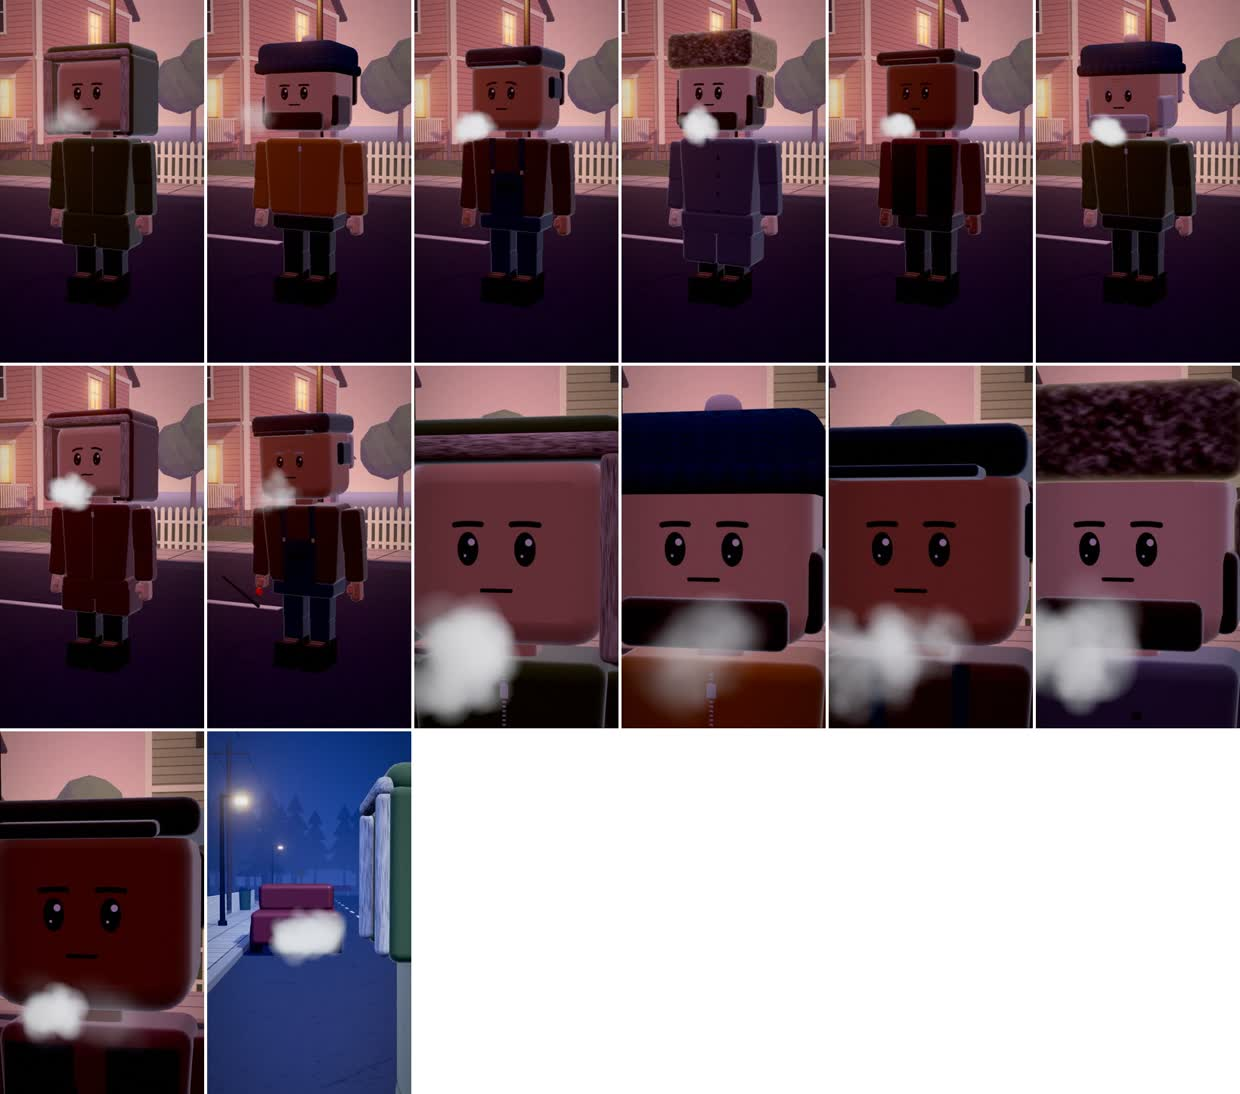
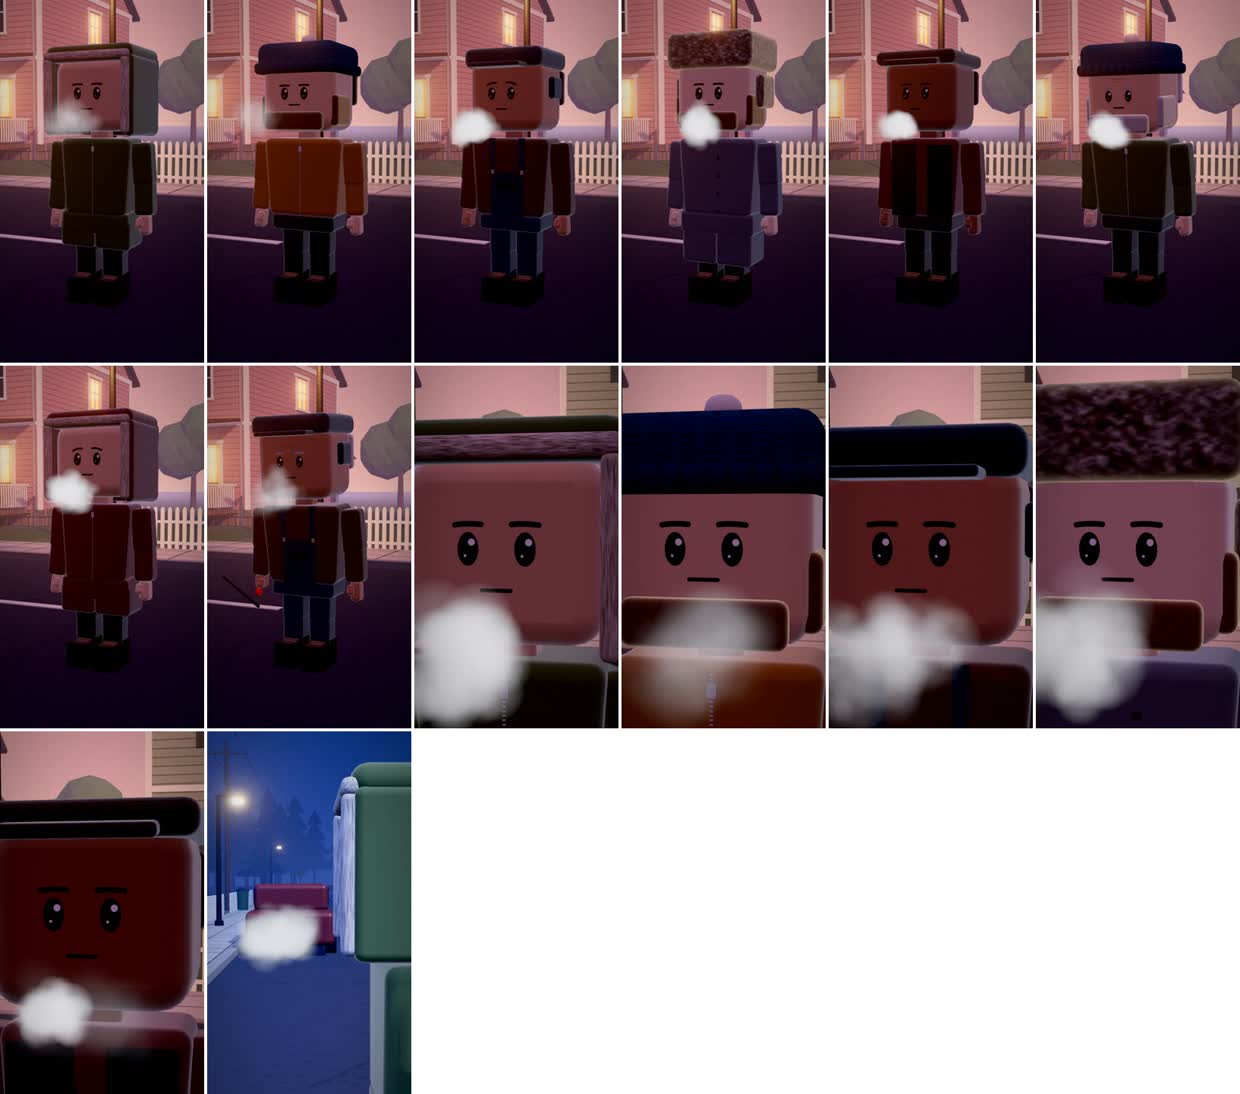
Kindly F1: Atem-Tor bestanden (Kompressions-Simulation), Endkarten-Probe, Belege und README §20
Atemdampf 20 % größer und im Kern dichter; Atem-Probe am Stegende (Gus und Odell dampfen, Bear nicht):
Gus +138,7, Odell +23,9, Bear 0,1 Helligkeitsstufen, auch bei 720×1280 mit 1 Mbit/s; schwächstes
1-s-Fenster der Gruppe 64. Endkarte 1,204 → 1,203 nach derselben Kompression lesbar; der Pinsel
verdeckt die alte Zahl nicht mehr. Renders liegen in horror/build/kindly-01/ (nicht im Repo).

Claude-Session: https://claude.ai/code/session_01AABSNR8DnjH5X3EkuUwTDc

diff --git a/horror/engine/figuren/ortsschild.js b/horror/engine/figuren/ortsschild.js
@@ -13,7 +13,7 @@
 //         schichten (alte Zahlen unter der Farbe, Std ["1,207", "1,205", "1,206"]), hand (Std true: Odells Hand mit
 //         Pinsel ist da und kommt zur Aktion ins Bild), schnee (Std true: Schnee auf der Oberkante)
 // Animationen:
-//   umschreiben  Std 1,0 s. Hand kommt von links unten (0–0,38 s; die alte Zahl bleibt frei lesbar), Strich durch
+//   umschreiben  Std 1,0 s. Hand kommt von links unten (0–0,4 s; der Pinsel bleibt unter der alten Zahl), Strich durch
 //                Zeile 1 (0,40–0,52 s), neue Zahl in Zeile 2 von links nach rechts (0,55–0,78 s), Hand zieht nach
 //                unten weg (0,8–1,0 s). Mit Start auf dem ersten Bild der Endkarte steht die neue Zahl 0,72 s fertig.
 //   pinsel_sinken Std 1,2 s. Der Pinsel hebt sich vor Zeile 2, hält, sinkt wieder (keine Änderung, Stille).
@@ -233,7 +233,10 @@ export default async function baue(ctx, params = {}) {
           // Weg der Pinselspitze: von links unten heran, Strich nach rechts, hinunter und zurück an den Anfang von
           // Zeile 2, malen nach rechts (mit kleinen Auf-und-ab-Zügen), dann nach unten aus dem Bild
           let x, y;
-          if (t < 0.38) { const u = glatt(0, 0.38, t); x = links - 0.9 * (1 - u); y = z1 - 1.3 * (1 - u); }
+          // Anflug endet links unterhalb der Zahl (der Pinsel liegt schräg nach rechts unten: so verdeckt er die
+          // alte Zahl nicht, solange sie ruhig zu lesen sein soll), erst kurz vor dem Strich an ihren Anfang
+          if (t < 0.36) { const u = glatt(0, 0.36, t); x = links - 0.08 - 0.85 * (1 - u); y = z1 - 0.24 - 1.1 * (1 - u); }
+          else if (t < 0.4) { const u = glatt(0.36, 0.4, t); x = links - 0.08 + 0.08 * u; y = z1 - 0.24 + 0.24 * u; }
           else if (t < 0.53) { const u = glatt(0.40, 0.52, t); x = links + strichLaenge * u; y = z1 + 0.05 * u; }
           else if (t < 0.56) { const u = glatt(0.53, 0.56, t); x = rechts + (links - rechts) * u; y = z1 + (z2 - z1) * u; }
           else if (t < 0.8) { const u = glatt(0.55, 0.78, t); x = -neuB / 2 + 0.15 + (neuB - 0.3) * u; y = z2 + Math.sin(c.tLokal * 70) * ZIFFER * 0.35 * (u < 1 ? 1 : 0); }

diff --git a/horror/engine/README.md b/horror/engine/README.md
@@ -1001,5 +1001,23 @@ node test/atem-probe.mjs --nur-messung   # nur Kompression und Messung erneut (t
 
 - **Probe:** 10 s nachts am Stegende (Set see, Licht `see_nacht`, Gegenlicht der Steglaterne, leichter Schneefall), wie S37: Kamera neben dem Steg, Odell (weiße Gläser, Laterne) von hinten, Bear und Gus im Dreiviertelprofil. Gus und Odell dampfen, Bear nicht. Zwei Einstellungen (0–5 s alle drei, 5–10 s näher an Bear und Gus).
 - **Simulation:** Die Hauptfassung (crf 18) wird wie von einer Plattform im schlechten Fall neu kodiert: H.264, x264 `-preset medium`, zwei Durchgänge, 1080 × 1920 mit 2,5 und 1,5 Mbit/s, 720 × 1280 mit 1,0 Mbit/s.
-- **Messung:** je Fassung und Figur mittlere Helligkeit in einem Kasten um den Anker `dampf` (Größe nach dem Abstand Mund–Wolke im Bild), mit Dampf minus ohne Dampf (dieselbe Episode mit `dampf: false`, gleich kodiert). Tor (A): wer dampft, im Mittel ≥ 12 Stufen und kein 1-s-Fenster unter 6; Bear unter 3. Dazu Kontaktbögen in Feed-Größe 270 × 480 (`build/kindly-01/atem-probe/bogen-<fassung>.jpg`) zum Ansehen.
+- **Messung:** je Fassung und Figur mittlere Helligkeit in einem Kasten um den Anker `dampf` (Größe nach dem Abstand Mund–Wolke im Bild), mit Dampf minus ohne Dampf (dieselbe Episode mit `dampf: false`, gleich kodiert). Tor (Bibel §10.7, Schwellen A): wer dampft, im Mittel ≥ 12 Stufen; Bear im Mittel unter 3; „fällt in unter 1 s auf“: in jedem 1-s-Fenster hebt sich mindestens eine dampfende Figur um ≥ 12 ab. Dazu Kontaktbögen in Feed-Größe 270 × 480 (`build/kindly-01/atem-probe/bogen-<fassung>.jpg`) zum Ansehen.
+- **Ergebnis 17.11.2026: bestanden** (`build/kindly-01/atem-probe/messung.json`). Die Kompression ändert an der Wolke praktisch nichts:
+
+| Fassung | Bitrate (gemessen) | Gus | Odell (von hinten) | Bear (ohne Dampf) | schwächstes 1-s-Fenster der Gruppe |
+|---|---|---|---|---|---|
+| Hauptfassung crf 18 | 20,3 Mbit/s | +138,6 | +23,9 (1-s-Minimum 5,6) | 0,10 | 64,1 |
+| 1080 × 1920, 2,5 Mbit/s | 2,49 | +138,7 | +23,9 (5,6) | 0,13 | 64,2 |
+| 1080 × 1920, 1,5 Mbit/s | 1,53 | +138,7 | +23,9 (5,6) | 0,14 | 64,4 |
+| 720 × 1280, 1,0 Mbit/s | 1,02 | +138,7 | +23,9 (5,6) | 0,15 | 64,2 |
+
+- **Nachgeschärft nach der ersten Probe:** Wolkenflecken 20 % größer und im Kern dichter (erste Probe: Gus +122, in Feed-Größe war die Wolke in der Halbtotalen nur gut 25 px breit). Die Fenster-Regel gilt für die Gruppe: Odell, von hinten gesehen, verdeckt mit dem eigenen Kopf in einzelnen Sekunden seine Wolke (1-s-Minimum 3,9 → 5,6).
+- **Sicht (Bögen angesehen):** In jedem Bild der Bögen hängt vor Gus' Kinn eine weiße Wolke, Odells Wolke steht neben seinem Kopf; Bear hat keine. In der Halbtotalen ist die Wolke in Feed-Größe klein (etwa 30 px): Für die Suchbild-Einstellungen (S3–4, S41, S64) Halbnah oder näher und die Wolke vor dunklem Grund im Gegenlicht (Laterne seitlich hinter der Figur, nicht hinter einem Kopf). In Großaufnahmen von vorn deckt die Wolke Kinn und Kragen; bei Dialog `dampf { staerke: 0.5 }`.
+- **Endkarte** (`node test/atem-probe.mjs --endkarte`, 1,5 s, Set stadtrand, Nacht, Schneefall, Kamera 6,6 m vor der Tafel, Blick auf 1,15 m): Nach derselben Kompression (720 × 1280, 1 Mbit/s) sind „1,204“, der Strich und „1,203“ in Feed-Größe lesbar (`build/kindly-01/atem-probe/bogen-endkarte.jpg`, `build/kindly-01/endkarte-probe.mp4`); die Zahlenzeilen liegen bei y ≈ 800 und 960 (sichere Zone). Die alte Zahl bleibt bis 0,4 s frei (der Pinsel kommt von links unten), die neue steht ab 0,78 s.
+- Linus' Blick am Handy ist optional: `build/kindly-01/atem-probe.mp4` (crf 18) und die komprimierten Fassungen `build/kindly-01/atem-probe/mit-*.mp4`.
+
+### 20.7 Offen
+
+- Der Shotlisten-Test „Set-Ereignisse landen mit Wortzeit in params.ereignisse (Kriechkeller, Glocke)“ (`npm test`) schlägt fehl („Fingerschatten auf Ready“); er betrifft `shotliste.mjs` (zuletzt geändert mit den Orten, ce04830), nicht die Bausteine dieses Abschnitts.
+- Kamerapunkte des Sets see für Old Knuckles nachstellen (Untersicht schräg von unten-seitlich, Kopf unter `stelle`), `rand.endkarte` näher an die Tafel, `rathaus.lampe` bei Buch-Einstellungen dimmen (20.4, 20.5).
 
